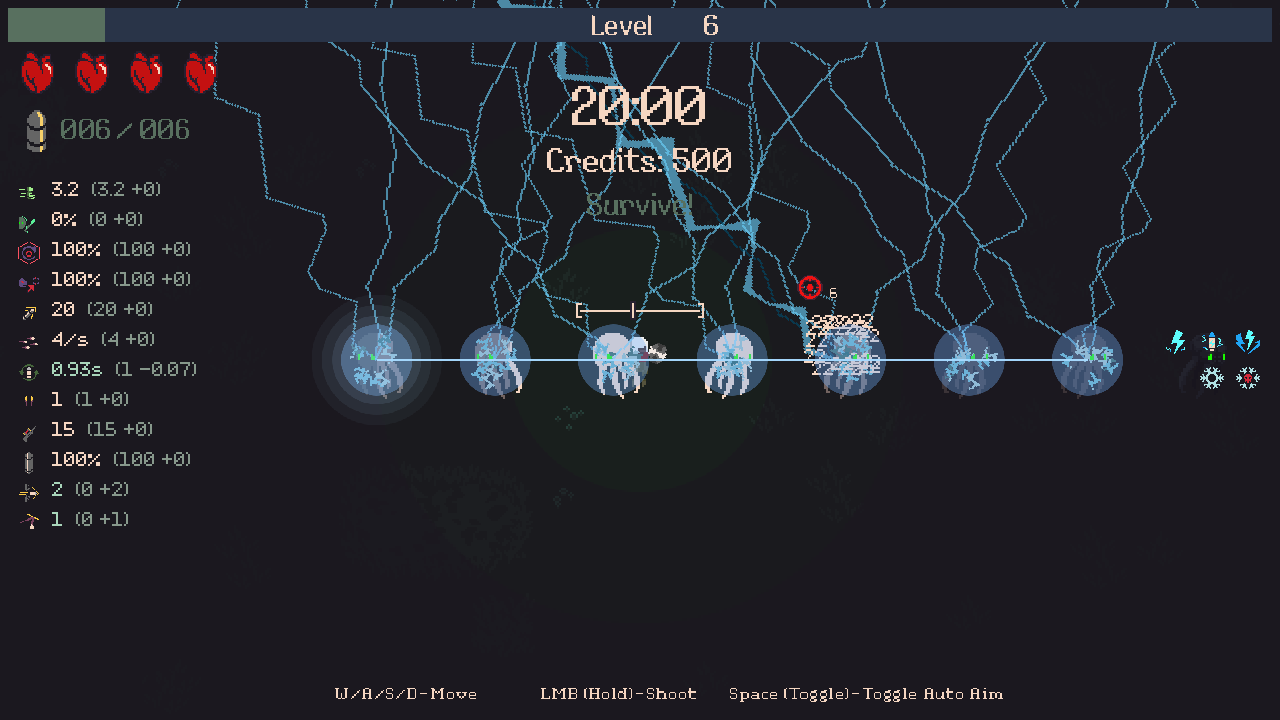
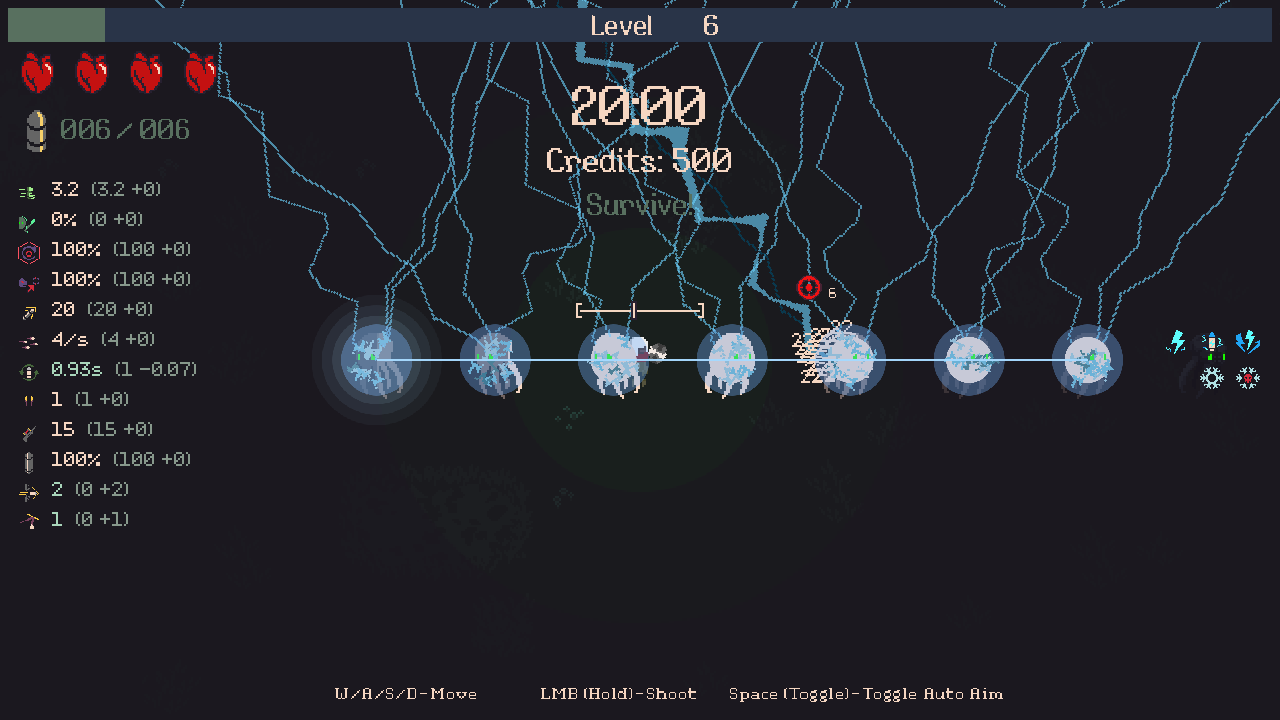
End lightning chains before sub-one damage jumps

diff --git a/validation/ElementChecks.cs b/validation/ElementChecks.cs
@@ -11,6 +11,7 @@ namespace TwentyMinutes.Modernization.Validation;
 public partial class RuntimeChecks
 {
  internal static AIComponent ElementAimed;internal static Vector2 ElementAimPoint;internal static int ElementStrikes;
+ int ElementChainNotices;void ElementChainHit(object sender,object args)=>ElementChainNotices++;
  IEnumerator CheckElements(string mode)
  {
   if(mode=="elements-save"||mode=="elements-continue"||mode=="elements-prior"){yield return ElementSave(mode);yield break;}
@@ -130,8 +131,22 @@ public partial class RuntimeChecks
    for(int i=0;i<10;i++)targets.Add(ElementEnemy(origin+Vector2.right*(ElementWidth*2*i)));
    ThunderGenerator.SharedInstance.GenerateAt(targets[0].gameObject,22);yield return null;yield return null;int[] combined={34,23,16,11,8,5,4,2,1,0};
    for(int i=0;i<targets.Count;i++)Require(10000-targets[i].HP==combined[i],"chain follows full HUD metrics including weapon-base values at "+i);
+   data.piercing=999;this.AddObserver(ElementChainHit,ThunderGenerator.ThunderHitEvent);
+   foreach(bool positional in new[]{false,true})foreach(int input in new[]{22,24})
+   {
+    ElementClear();while(Object.FindObjectsOfType<ElementalArc>().Length>0)yield return null;ElementChainNotices=0;targets.Clear();for(int i=0;i<14;i++)targets.Add(ElementEnemy(origin+Vector2.right*(ElementWidth*2*i)));
+    if(positional)ThunderGenerator.SharedInstance.GenerateAt((Vector3)origin,input);else ThunderGenerator.SharedInstance.GenerateAt(targets[0].gameObject,input);
+    yield return null;yield return null;int victims=input==22?10:11;
+    Require((int)AccessTools.Field(typeof(AndroidLightning),"LastVictims").GetValue(null)==victims,"999-Pierce chain ends at damage floor rather than a fixed target cap: positional="+positional+" input="+input);
+    Require(ElementChainNotices==victims&&Object.FindObjectsOfType<ElementalArc>().Length==victims-1,"below-one jump creates no lightning notification or visual arc");
+    for(int i=0;i<targets.Count;i++)
+    {
+     int amount=Mathf.FloorToInt((input+12)*Mathf.Pow(.7f,i));Require(10000-targets[i].HP==(i<victims?amount:0),"999-Pierce chain retains unrounded falloff through its last damaging jump");
+     Require(i<victims?Control(targets[i])!=null&&Control(targets[i]).Stun>0:Control(targets[i])==null||Control(targets[i]).Stun==0,"below-one chain targets receive no electrical stun");
+    }
+   }
   }
-  finally{data.piercing=originalPierce;data.bounce=originalBounce;}
+  finally{this.RemoveObserver(ElementChainHit,ThunderGenerator.ThunderHitEvent);data.piercing=originalPierce;data.bounce=originalBounce;}
   p.stats[StatType.Piercing].AddFlatBonus(-2);p.stats[StatType.Bounce].AddFlatBonus(-1);ElementClear();yield return null;
   var reused=ElementEnemy(origin);Require(Control(reused)==null||Control(reused).Stun==0,"pooled NPC reuse carries no electrical stun");ElementClear();
   yield return AndroidPick(game,"ElectroBug",game.playerXP.level);yield return null;yield return null;

diff --git a/src/ElementalDescriptions.cs b/src/ElementalDescriptions.cs
@@ -11,7 +11,7 @@ class ElementalDescriptions
   ["electro_mage_name"]="Every 2nd shot calls Lightning for 22 base damage. A small splash deals less damage toward its edge and stuns enemies for 2 seconds.",
   ["electro_bug_name"]="Summon an Electro Bug that calls 2 Lightning strikes every 3 seconds. Its strikes gain summon bonuses, splash and electrical stun.",
   ["energized_name"]="Reload Speed +1% for each living, electrically stunned enemy currently on screen. Each enemy counts once; there is no cap.",
-  ["electro_mastery_name"]="Lightning Damage +12. Lightning chains to 3 + Pierce + Bounce additional enemies, retaining 70% damage per jump. Jumps stun but do not splash.",
+  ["electro_mastery_name"]="Lightning Damage +12. Chain to up to 3 + Pierce + Bounce more enemies, retaining 70% damage per jump. Jumps stun without splash. Chains end below 1 damage.",
   ["pyro_mage_name"]="Bullets have a 50% chance to apply 3 Burn damage per second for 5 seconds. Burns accumulate. Fresh ignitions cause brief slow retreat and spread weaker fire nearby.",
   ["fire_starter_name"]="Every 4th shot launches a Fireball with 40 base damage, improved by Bullet Damage. It explodes with twice its radius, dealing less damage toward the edge and igniting enemies.",
   ["intense_burn_name"]="Burn Damage +35%, including propagated burns. Fire spreads with 70% of its parent's accumulated potency; bonuses are applied once.",

diff --git a/src/AndroidLightning.cs b/src/AndroidLightning.cs
@@ -37,9 +37,10 @@ public static class AndroidLightning
    var recipe=PlayerController.Instance.gun.GetProjectileRecipe();int jumps=3+recipe.piercing+recipe.bounce;Vector3 from=position;
    for(int i=0;i<jumps;i++)
    {
+    int amount=Mathf.FloorToInt(full*Mathf.Pow(.7f,i+1));if(amount<1)break;
     ids.Clear();actors.GetMonsterInRange(ids,state.BodyWidth*3,from);
     var next=ids.Select(actors.GetFromID).Where(t=>Eligible(t)&&!visited.Contains(t.GetInstanceID())).OrderBy(t=>Vector2.SqrMagnitude(t.transform.position-from)).ThenBy(t=>t.GetInstanceID()).FirstOrDefault();if(next==null)break;
-    var to=next.transform.position;Visual(owner,to,prefab,impactPrefab,pool,sound);state.Arc(from,to);Hit(owner,next,Mathf.FloorToInt(full*Mathf.Pow(.7f,i+1)),visited,kind);from=to;
+    var to=next.transform.position;Visual(owner,to,prefab,impactPrefab,pool,sound);state.Arc(from,to);Hit(owner,next,amount,visited,kind);from=to;
    }
   }
   LastVictims=visited.Count;

diff --git a/docs/ANOMALIES.md b/docs/ANOMALIES.md
@@ -4,6 +4,8 @@
 
 Final package review found a Revamped integration error: chain counts used `stats.Piercing/Bounce.Modify(0)`, omitting weapon-base values. The HUD instead displays the complete current projectile recipe. N01 requires those full metrics. This reopened the elemental stage and superseded candidate5114bea before publication; the corrected contract is verified with both acquired bonuses and nonzero weapon-base values. No extra chain cap is authorized or added.
 
+The native inventory reports999 Pierce on Flame Cannon/sword variants. The user explicitly chose damage-based termination: stop before a jump whose falloff is below1 damage, including its stun and artwork. This preserves the full metric budget without adding a hard target cap. Native tests cover34 total damage reaching nine additional enemies and36 reaching ten, for both targeted and positional producers.
+
 The subsequent enhanced-regular-enemy feature is a requested addition. It uses the native kill count and final ordinary spawn values, without changing Android's scheduled elite/miniboss identities. Source Death returns its actor before invoking drop spawners; the new XP multiplier therefore survives that deactivation until drop dispatch completes, while health/aura/firing reset for reuse. This lifecycle is covered by native death/XP/pool checks. The new checkpoint member is optional for older runs, which retain progress toward the next 200-kill boundary.
 
 The user approved the elemental rules in [ELEMENTS.md](ELEMENTS.md). These deliberately replace the old flat/signed positional lightning, size Mastery and Energized ammo refund. The old lightning validation oracle is replaced with the complete new damage/control/save contract; its historical evidence remains retained.

diff --git a/docs/PROGRESS.md b/docs/PROGRESS.md
@@ -4,7 +4,7 @@
 
 | Stage | Status | Satisfied / remaining |
 |---|---|---|
-| N1 Complete elemental redesign | BLOCKED | Full HUD Pierce/Bounce is corrected and verified by native27 after native26 reproduces the omission. Remaining external requirement decision: native Flame Cannon/swords use999 Pierce, so whether zero-damage chain jumps still stun needs the user's choice. Stop below1 damage is proposed; no cap/termination change has been applied. Prior unaffected element/save/mode evidence remains applicable. |
+| N1 Complete elemental redesign | COMPLETE | Latest complete lightning29 verifies full HUD metrics and approved below-one termination; fire16/wind11/save10/Continue13/prior14/maps17/producers20/controller18 remain applicable. Exact inputs and both-style cues are retained in N1-acceptance.json. No blocker or deferral. |
 | N2 Enhanced regular enemies | COMPLETE | Native22/23/24/25 verify real200-kill cadence,3x health/XP, red aura both styles, Eye frequency, boss separation, pool reuse, exact pending/prior saves and all six modes plus Custom. N2-acceptance.json records source pins and closure review. No blocker or deferral. |
 | N3 Final public delivery | BLOCKED | Parked on N01 full-metric chain correction in N1. Candidate5114bea is superseded and its acceptance is cancelled through the owned player signal. No public1.2.0 release. Resume after N1 closes; remaining exact package, publication/download and cleanup gates still apply. |
 

diff --git a/release/NOTES-1.2.0.md b/release/NOTES-1.2.0.md
@@ -4,7 +4,7 @@ Lightning, fire and wind now have distinct crowd-control roles alongside the exi
 
 ## Added and refined
 
-- Lightning strikes splash with damage falloff and a separate two-second electrical stun. Electro Mastery adds chains with **3 + Pierce + Bounce** jumps, retaining 70% damage per jump. Energized gives **+1% Reload Speed per visible electrocuted enemy**, replacing ammunition refunds.
+- Lightning strikes splash with damage falloff and a separate two-second electrical stun. Electro Mastery adds up to **3 + Pierce + Bounce** jumps using full weapon metrics, retaining 70% damage per jump. Chains stop below1 damage, without zero-damage stuns or arcs. Energized gives **+1% Reload Speed per visible electrocuted enemy**, replacing ammunition refunds.
 - Fresh fire causes brief slow retreat. Burns spread at 70% underlying potency without multiplying bonuses twice. Fire Starter explodes with twice its current visible radius and ignites blast victims.
 - Gales gather enemies and bend hostile shots outward. Eye pulses push enemies and scatter shots; Mastery disorients movement and ranged aiming. Friendly shots retain their trajectories.
 - Every **200 kills** earns an elite opportunity. The next regular wave enemy gains **3× final health and normal XP**, with a red aura. Elite Eyes fire **50% more frequently**. Scheduled minibosses and bosses keep their existing roles.

diff --git a/docs/ELEMENTS.md b/docs/ELEMENTS.md
@@ -14,7 +14,7 @@ These are user-requested Revamped balance changes, superseding the corresponding
 - **Electro Mage:** every second shot calls a 22-base-damage strike. Splash radius is 1.1 ordinary BrainMonster collider widths, for roughly three closely grouped ordinary mobs.
 - **Electro Bug:** retains two strikes every three seconds and summon scaling, using the shared splash/stun rules.
 - **Energized:** +1% Reload Speed per living, electrically stunned enemy currently on screen, per acquired Energized owner. No cap or ammunition refund. Contributions disappear on recovery, death or leaving the screen.
-- **Electro Mastery:** +12 Lightning Damage; replaces the size increase with 3 + current Pierce + current Bounce chain jumps. Each jump retains 70% unrounded potency, chooses a new target within three body widths and stuns without another splash. Each victim is hit once per original strike.
+- **Electro Mastery:** +12 Lightning Damage; replaces the size increase with up to 3 + current Pierce + current Bounce chain jumps, including weapon-base values. Each jump retains 70% unrounded potency, chooses a new target within three body widths and stuns without another splash. A chain ends when its next jump would deal less than 1 damage; that jump produces no strike, arc or stun. Each victim is hit once per original strike.
 
 ## Fire
 
